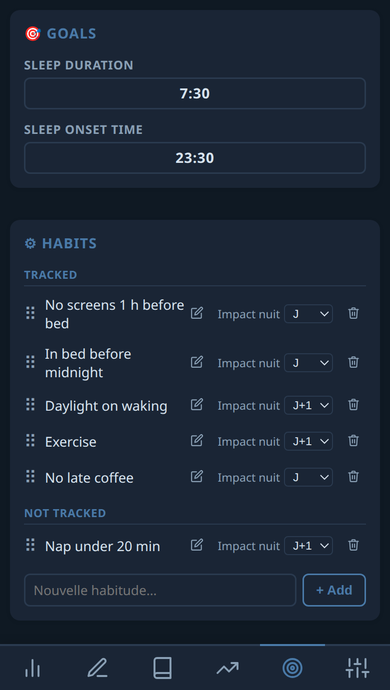
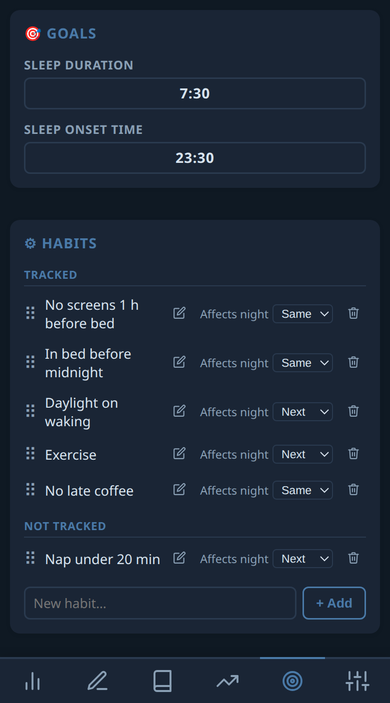
Translate the last habit strings, and equalise the README thumbnails
The Goals tab still showed French whatever the language: the "Affects
night" label, its J / J+1 options, the new-habit placeholder, the rename
tooltip and the two day-navigation arrows.

Two of those replacements had silently failed earlier because the pattern
assumed a key at the start of its line while it sat mid-line -- hence the
assertions now.

The opening screenshot row is cropped to a common height; the three
sources differ (863, 1413 and 690 px tall), so sizing them by width alone
left them ragged.

Claude-Session: https://claude.ai/code/session_01FQFvFp19TCnSP51ghzrwLx

diff --git a/frontend/js/habits.js b/frontend/js/habits.js
@@ -56,12 +56,12 @@ function _makeHabitRow(h) {
     <span style="cursor:grab;color:var(--muted);padding-right:8px;font-size:1.1rem;user-select:none;flex-shrink:0">⠿</span>
     <span class="habit-name-lbl" style="flex:1;font-size:0.85rem;color:var(--text)">${h.name}</span>
     <input class="habit-name-inp" style="display:none;flex:1;font-size:0.85rem;padding:2px 6px;border:1.5px solid var(--primary-light);border-radius:4px;background:var(--card);color:var(--text);font-family:inherit" value="${h.name}">
-    <button class="edit-btn habit-rename-btn" title="Renommer">${pencilSvg}</button>
+    <button class="edit-btn habit-rename-btn" title="${t('act_rename')}">${pencilSvg}</button>
     <label style="display:flex;align-items:center;gap:4px;font-size:0.72rem;color:var(--muted);flex-shrink:0;margin:0 8px">
-      Impact nuit
+      ${t('hb_impact')}
       <select class="habit-impact-sel" style="font-size:0.72rem;border:1px solid var(--border);border-radius:4px;padding:1px 4px;background:var(--card);color:var(--text);cursor:pointer">
-        <option value="next" ${(h.sleepImpact||'next')==='next'?'selected':''}>J+1</option>
-        <option value="same" ${h.sleepImpact==='same'?'selected':''}>J</option>
+        <option value="next" ${(h.sleepImpact||'next')==='next'?'selected':''}>${t('hb_next')}</option>
+        <option value="same" ${h.sleepImpact==='same'?'selected':''}>${t('hb_same')}</option>
       </select>
     </label>
     <button class="del-btn" onclick="deleteHabit('${h.id}')" title="${t('act_delete')}">${trashSvg}</button>`;

diff --git a/frontend/js/i18n.js b/frontend/js/i18n.js
@@ -50,6 +50,9 @@ const S = {
     corr_habits_kept:"Nombre d'habitudes respectées",
     corr_dur_same:'Durée nuit même jour', corr_dur_next:'Durée nuit lendemain',
     b_done:'Faite', b_notdone:'Non faite', hb_untracked_lbl:'Non suivie',
+    hb_impact:'Impact nuit', hb_new_ph:'Nouvelle habitude…', act_rename:'Renommer',
+    hb_same:'J', hb_next:'J+1',
+    d_prev:'Jour précédent', d_next:'Jour suivant',
     b_lt25:'< 25 %', b_25_75:'25 – 75 %', b_gt75:'> 75 %',
     f_longer:'allonger tes nuits', f_shorter:'éviter les nuits trop longues',
     f_longer2:'allonger tes nuits — leur effet se fait sentir deux jours plus tard',
@@ -168,6 +171,9 @@ const S = {
     corr_habits_kept:'Habits kept',
     corr_dur_same:'Same-day night duration', corr_dur_next:'Next-day night duration',
     b_done:'Done', b_notdone:'Not done', hb_untracked_lbl:'Not tracked',
+    hb_impact:'Affects night', hb_new_ph:'New habit…', act_rename:'Rename',
+    hb_same:'Same', hb_next:'Next',
+    d_prev:'Previous day', d_next:'Next day',
     b_lt25:'< 25%', b_25_75:'25 – 75%', b_gt75:'> 75%',
     f_longer:'making your nights longer', f_shorter:'avoiding overly long nights',
     f_longer2:'making your nights longer — the effect shows up two days later',
@@ -274,9 +280,11 @@ function applyLang() {
   };
   Object.entries(ids).forEach(([id,k])=>{ const el=document.getElementById(id); if(el) el.textContent=t(k); });
   document.getElementById('f-notes').placeholder = t('notes_ph');
+  document.getElementById('new-habit-input').placeholder = t('hb_new_ph');
   const ds = getDateValue();
   if (ds) setDateValue(ds);
   document.getElementById('cal-btn-lbl').title = t('cal_title');
+  document.querySelectorAll('.nav-day-btn').forEach((b, k) => { b.title = k === 0 ? t('d_prev') : t('d_next'); });
   const dark = document.documentElement.classList.contains('dark');
   document.getElementById('theme-toggle').textContent = dark ? t('theme_dark') : t('theme_light');
   // Re-render dynamic content

diff --git a/frontend/sleep_agenda.html b/frontend/sleep_agenda.html
@@ -59,7 +59,7 @@
           <input type="hidden" id="f-month">
           <input type="hidden" id="f-year">
           <div style="display:flex;align-items:center;gap:6px">
-            <button class="nav-day-btn" onclick="prevDay()" title="Jour précédent">◀</button>
+            <button class="nav-day-btn" onclick="prevDay()" title="">◀</button>
             <div class="cal-wrap" style="flex:1">
               <button onclick="toggleCalendar(event)" id="cal-btn-lbl" style="width:100%;display:flex;align-items:center;justify-content:space-between;padding:8px 12px;border:1.5px solid var(--border);border-radius:6px;background:var(--card);cursor:pointer;transition:border-color 0.15s;font-family:inherit">
                 <span id="date-display" style="font-size:0.9rem;font-weight:600;color:var(--text)">–</span>
@@ -75,7 +75,7 @@
                 <div id="cal-days" class="cal-days"></div>
               </div>
             </div>
-            <button class="nav-day-btn" onclick="nextDay()" title="Jour suivant">▶</button>
+            <button class="nav-day-btn" onclick="nextDay()" title="">▶</button>
           </div>
         </div>
       </div>
@@ -233,7 +233,7 @@
       <h2>⚙ <span id="lbl-habits-card">Habitudes</span></h2>
       <div id="habits-manage-list"></div>
       <div class="habit-add-row">
-        <input type="text" id="new-habit-input" class="habit-add-input" placeholder="Nouvelle habitude…" onkeydown="if(event.key==='Enter')addHabit()">
+        <input type="text" id="new-habit-input" class="habit-add-input" placeholder="" onkeydown="if(event.key==='Enter')addHabit()">
         <button class="habit-add-btn" id="btn-add-habit" onclick="addHabit()">+ Ajouter</button>
       </div>
     </div>

diff --git a/README.md b/README.md
@@ -5,11 +5,11 @@ Keep a diary of how you sleep, and find out what actually changes how you feel.
 Every morning you record when you went to bed, when you fell asleep and when you woke up. Every evening you say how your day went. After a few weeks the app tells you what is really linked to your good days — going to bed earlier, sleeping longer, keeping a particular habit — based on **your** nights, not on general advice.
 
 <p align="center">
-  <img src="docs/screenshots/summary.png" width="160" alt="Dashboard">
-  <img src="docs/screenshots/entry.png"   width="160" alt="Recording a night">
-  <img src="docs/screenshots/habits.png"  width="160" alt="Goals and habits">
+  <img src="docs/screenshots/thumb-summary.png" width="170" alt="Dashboard">
+  <img src="docs/screenshots/thumb-entry.png"   width="170" alt="Recording a night">
+  <img src="docs/screenshots/thumb-habits.png"  width="170" alt="Goals and habits">
 </p>
-<p align="center"><em>Dashboard · Recording a night · Goals and habits — each shown in detail below.</em></p>
+<p align="center"><em>Dashboard · Recording a night · Goals and habits</em></p>
 
 It works on an **Android phone** and in a **web browser**. Everything stays on your device: nothing is sent anywhere, no account, no sign-up, and it works without an internet connection.
 